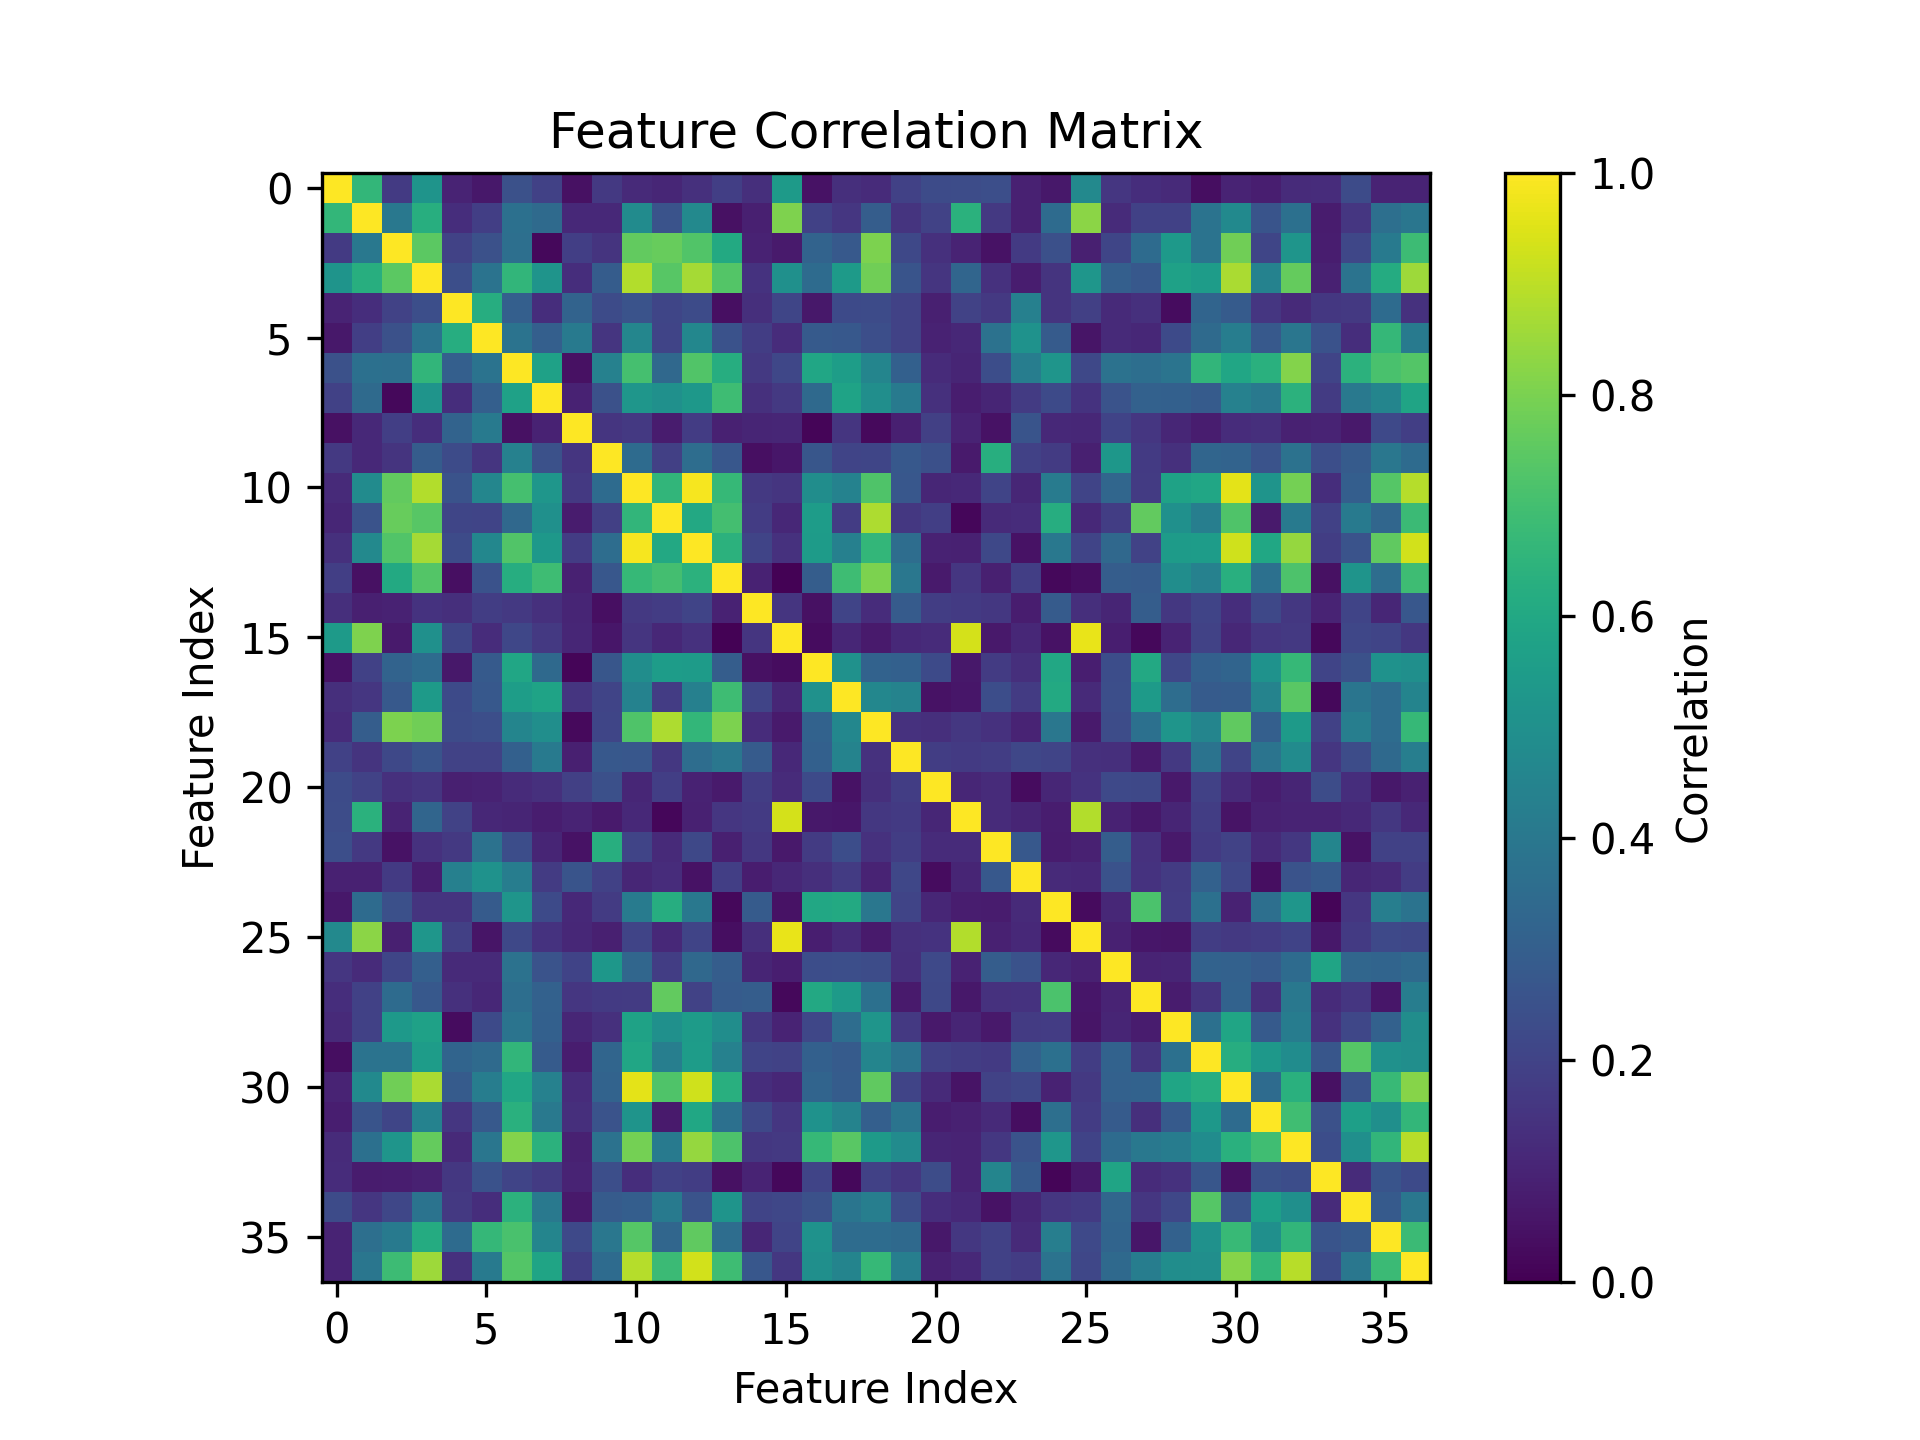
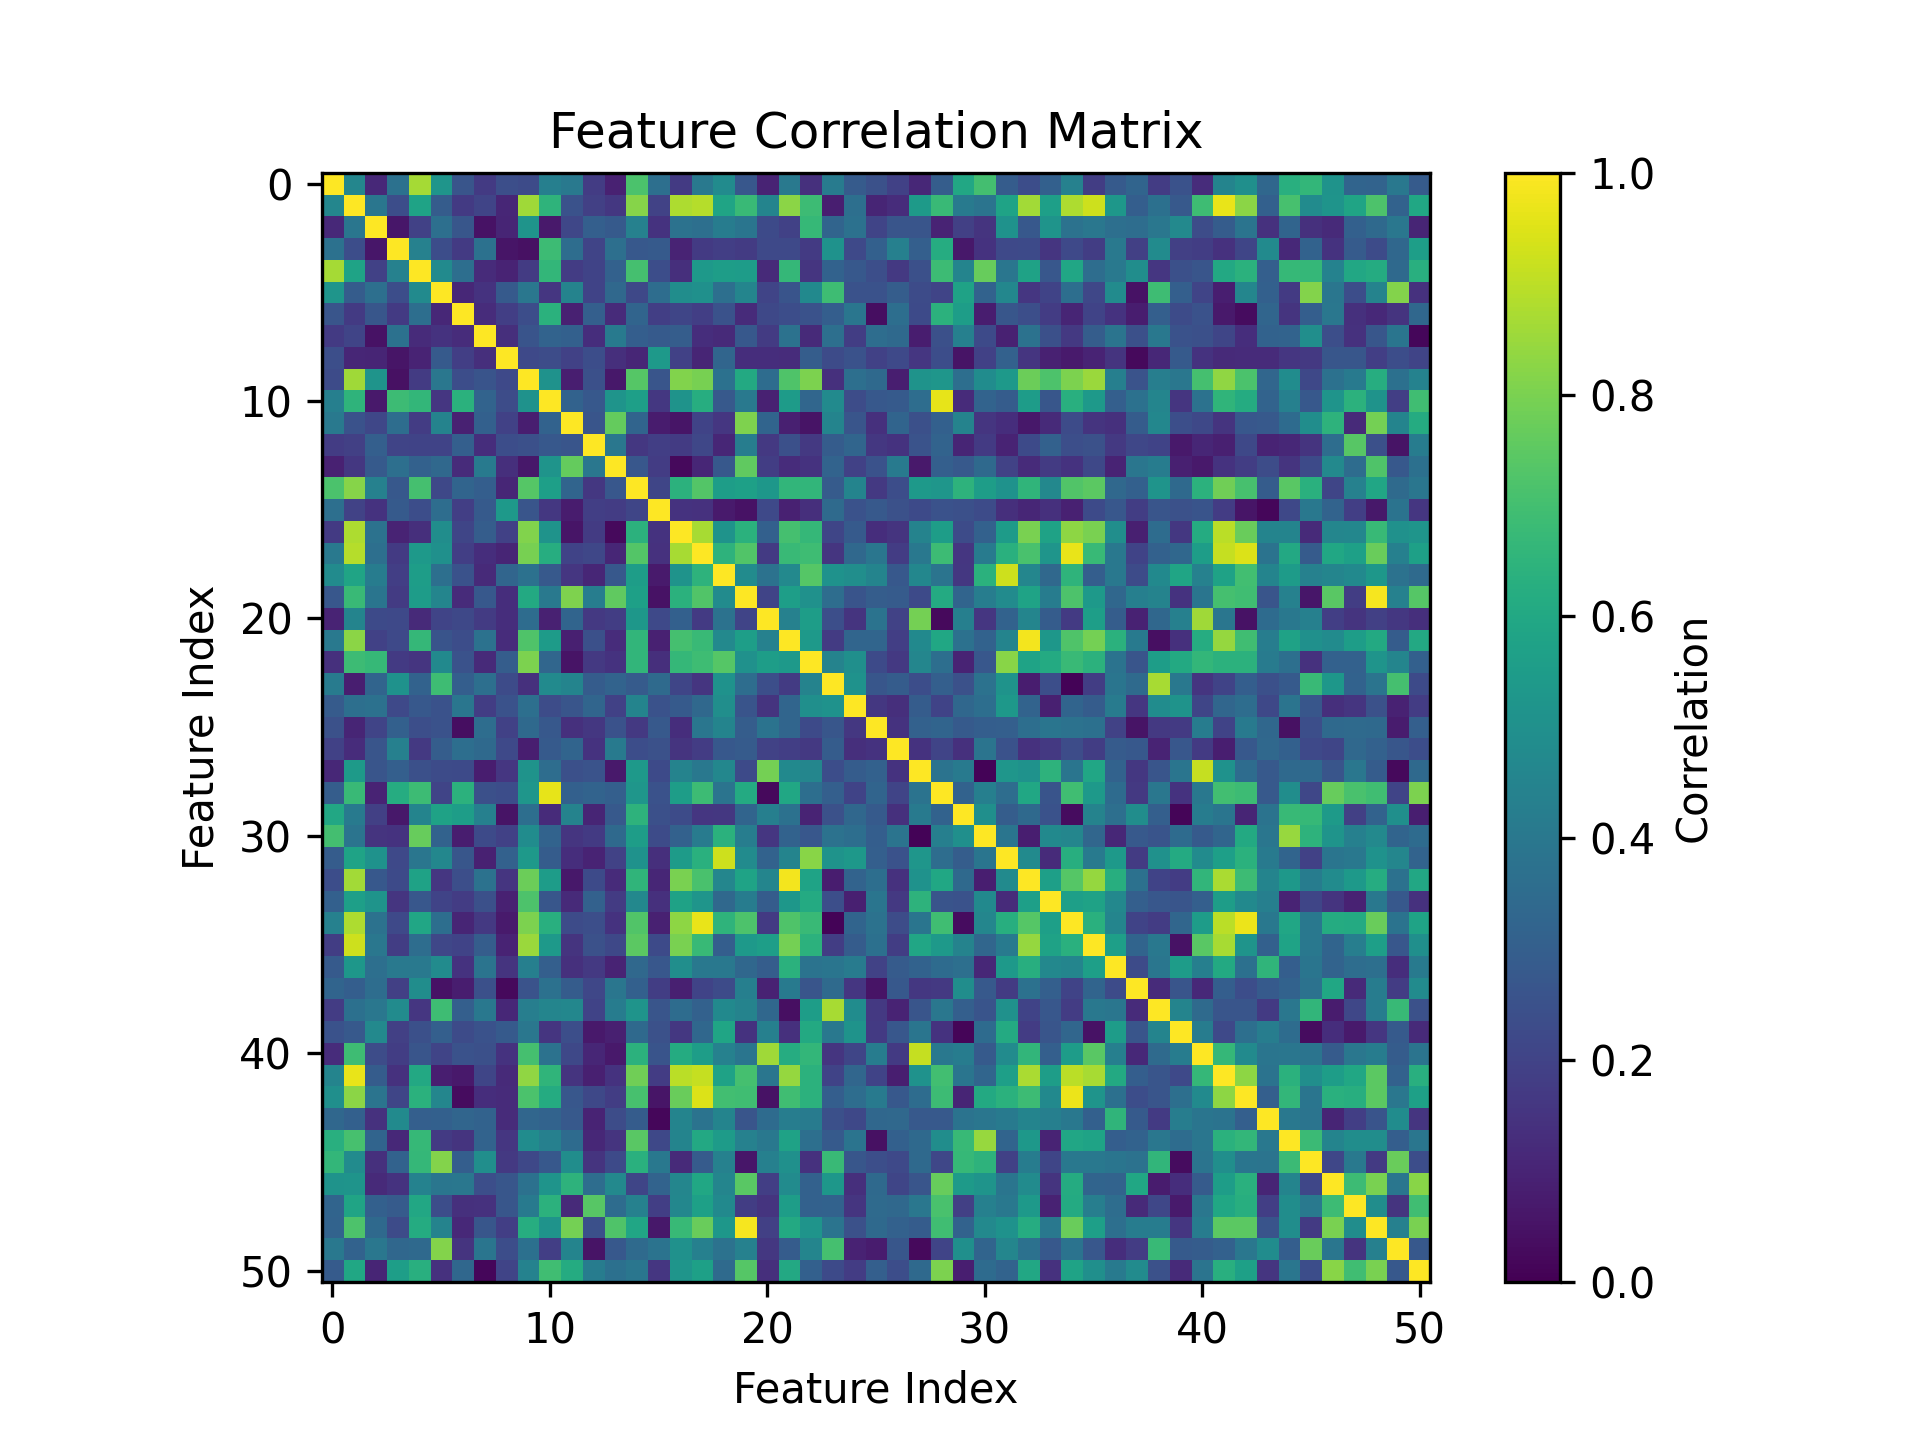
first dry tests of training

diff --git a/prior/preprocessing/preprocessing.py b/prior/preprocessing/preprocessing.py
@@ -22,7 +22,6 @@ class Preprocessor:
         remove_outliers: bool = True,
         outlier_quantile: float = 0.95,
         eps: float = 1e-8,
-        y_clip_quantile: Optional[float] = None,
         device: Optional[torch.device] = None,
         dtype: Optional[torch.dtype] = None,
     ):
@@ -41,8 +40,6 @@ class Preprocessor:
             Upper quantile (q). We winsorize using (1-q, q). Example: 0.95 → clamp to [p5, p95].
         eps : float
             Small numerical constant for divisions / logs.
-        y_clip_quantile : float (optional)
-            Optional winsorization for Y.
         device/dtype: Optional overrides for output tensors.
         """
         assert 0 < outlier_quantile <= 1.0, "outlier_quantile must be in (0, 1]."
@@ -53,7 +50,6 @@ class Preprocessor:
         self.remove_outliers = remove_outliers
         self.outlier_quantile = outlier_quantile
         self.eps = eps
-        self.y_clip_quantile = y_clip_quantile
 
         self.device = device
         self.dtype = dtype
@@ -68,17 +64,12 @@ class Preprocessor:
         
         # feature processing
         if self.remove_outliers:
-            q = float(self.outlier_quantile)
-            if not (0.5 < q <= 1.0):
+            upper_q = float(self.outlier_quantile)
+            if not (0.5 < upper_q <= 1.0):
                 raise ValueError("outlier_quantile should be in (0.5, 1.0].")
-            lower_q = 1.0 - q
-            # torch.quantile supports q as tensor
-            qs = torch.tensor([lower_q, q], device=X.device, dtype=X.dtype)
-            # Compute per (B, F)
-            # shape: [B, 2, F]
-            Q = torch.quantile(X.transpose(1, 2), qs, dim=-1, keepdim=False).transpose(0, 1)
-            self.lo_x = Q[:, 0, :].unsqueeze(1)  # [B,1,F]
-            self.hi_x = Q[:, 1, :].unsqueeze(1)  # [B,1,F]
+            lower_q = 1.0 - upper_q
+            self.lo_x = torch.quantile(X, lower_q, dim=1, keepdim=True)
+            self.hi_x = torch.quantile(X, upper_q, dim=1, keepdim=True)
             X = X.clamp(min=self.lo_x, max=self.hi_x)
         
         if self.yeo_johnson:
@@ -98,15 +89,14 @@ class Preprocessor:
             X = 2.0 * (X - self.min_x) / self.rng_x - 1.0
         
         # target processing
-        if self.y_clip_quantile is not None:
-            q = float(self.y_clip_quantile)
-            if not (0.5 < q <= 1.0):
+        if self.remove_outliers:
+            upper_q = float(self.outlier_quantile)
+            if not (0.5 < upper_q <= 1.0):
                 raise ValueError("y_clip_quantile should be in (0.5, 1.0].")
-            qs = torch.tensor([1.0 - q, q], device=Y.device, dtype=Y.dtype)
-            Q = torch.quantile(Y, qs, dim=1, keepdim=True)  # [B,2,1] effectively
-            self.lo_y = Q[:, 0:1, :]
-            self.hi_y = Q[:, 1:2, :]
-            Y = Y.clamp(min=self.lo_y.squeeze(-1), max=self.hi_y.squeeze(-1))
+            lower_q = 1.0 - upper_q
+            self.lo_y = torch.quantile(Y, lower_q, dim=1, keepdim=True)
+            self.hi_y = torch.quantile(Y, upper_q, dim=1, keepdim=True)
+            Y = Y.clamp(min=self.lo_y, max=self.hi_y)
 
         if self.negative_one_one_scaling:
             self.min_y = Y.amin(dim=1, keepdim=True)
@@ -137,8 +127,8 @@ class Preprocessor:
             X = 2.0 * (X - self.min_x) / self.rng_x - 1.0
         
         # target processing
-        if self.y_clip_quantile is not None:
-            Y = Y.clamp(min=self.lo_y.squeeze(-1), max=self.hi_y.squeeze(-1))
+        if self.remove_outliers:
+            Y = Y.clamp(min=self.lo_y, max=self.hi_y)
 
         if self.negative_one_one_scaling:
             Y = 2.0 * (Y - self.min_y) / self.rng_y - 1.0

diff --git a/graphpfn/train.py b/graphpfn/train.py
@@ -3,16 +3,15 @@ from torch import nn
 import time
 from torch.utils.data import DataLoader
 from typing import Dict, Optional
-from graphpfn.priors import PriorDataLoader
 from pfns.bar_distribution import FullSupportBarDistribution
 import schedulefree
 
+from graphpfn.model import GraphPFNModel
 from nanotabpfn.callbacks import Callback
-from nanotabpfn.model import NanoTabPFNModel
 from nanotabpfn.utils import get_default_device
 
 
-def train(model: NanoTabPFNModel, prior: PriorDataLoader, criterion: nn.CrossEntropyLoss | FullSupportBarDistribution,
+def train(model: GraphPFNModel, prior: DataLoader, criterion: nn.CrossEntropyLoss | FullSupportBarDistribution,
           epochs: int, accumulate_gradients: int = 1, lr: float = 1e-4, device: Optional[str] = None,
           callbacks: list[Callback]=[], ckpt: Optional[Dict] = None):
     """
@@ -41,7 +40,7 @@ def train(model: NanoTabPFNModel, prior: PriorDataLoader, criterion: nn.CrossEnt
         optimizer.load_state_dict(ckpt['optimizer'])
     classification_task = isinstance(criterion, nn.CrossEntropyLoss)
 
-    assert prior.num_steps % accumulate_gradients == 0, 'num_steps must be divisible by accumulate_gradients'
+    assert len(prior) % accumulate_gradients == 0, 'num_steps must be divisible by accumulate_gradients'
 
     try:
         for epoch in range(ckpt['epoch'] + 1 if ckpt else 1, epochs + 1):
@@ -55,7 +54,7 @@ def train(model: NanoTabPFNModel, prior: PriorDataLoader, criterion: nn.CrossEnt
                         full_data['y'][:, :single_eval_pos].to(device))
                 if (torch.isnan(data[0]).any() or torch.isnan(data[1]).any()):
                     continue
-                targets = full_data['target_y'].to(device)
+                targets = full_data['y'].to(device)
 
                 output = model(data, single_eval_pos=single_eval_pos)
                 targets = targets[:, single_eval_pos:]

diff --git a/tests/test_r2.py b/tests/test_r2.py
@@ -1,18 +1,18 @@
 from sklearn.metrics import r2_score
-from sklearn.tree import DecisionTreeRegressor
+from sklearn.ensemble import RandomForestRegressor
 from tabpfn import TabPFNRegressor
 
 import matplotlib.pyplot as plt
 
 from prior.dataloaders.observational_dataloader import ObservationalDataLoader
-from prior.configs.default_configs import default_graph_config, default_dataset_config, default_preprocessing_config, default_scm_config
+from prior.configs.default_configs import graph_config, scm_config, preprocessing_config, dataset_config
 
-dataloader = ObservationalDataLoader(100, 1, default_graph_config, default_scm_config, default_preprocessing_config, default_dataset_config, seed=44)
+dataloader = ObservationalDataLoader(100, 1, graph_config, scm_config, preprocessing_config, dataset_config, seed=44)
 
 from nanotabpfn import NanoTabPFNRegressor
 nano_tabpfn = NanoTabPFNRegressor()
 tabpfn = TabPFNRegressor()
-tree = DecisionTreeRegressor()
+tree = RandomForestRegressor()
 
 nano_tabpfn_scores = []
 tabpfn_scores = []
@@ -33,9 +33,9 @@ for data in dataloader:
     pred = tabpfn.predict(X_test)
     tabpfn_scores.append(r2_score(y_test, pred))
     
-    tree.fit(X_train, y_train)
+    tree.fit(X_train, y_train.ravel())
     pred = tree.predict(X_test)
-    tree_scores.append(r2_score(y_test, pred))
+    tree_scores.append(r2_score(y_test.ravel(), pred))
     
 # Plotting
 fig, axes = plt.subplots(1, 3, figsize=(12, 4), sharey=False)

diff --git a/graphpfn/utils.py b/graphpfn/utils.py
@@ -1,0 +1,35 @@
+from pfns.bar_distribution import FullSupportBarDistribution
+from pfns.bar_distribution import get_bucket_limits
+from nanotabpfn.utils import get_default_device
+
+import torch
+from torch.utils.data import DataLoader
+
+def make_bar_distribution(prior: DataLoader,
+                          n_buckets: int = 100,
+                          n_samples: int = 10000
+                          ) -> FullSupportBarDistribution:
+    """
+    Construct a full support bar/Riemann distribution.
+    Sample `n_samples` many data tables from `prior` and
+    choose `n_buckets` many buckets to each contain the same number of targets.
+    """
+    sampled_ys = []
+    n_sampled = 0
+    prior_iter = iter(prior)
+    while n_sampled < n_samples:
+        try:
+            data = next(prior_iter)
+        except StopIteration:
+            raise IndexError("Not enough data in this dataloader!")
+        y = data['y']
+        b, n, _ = y.shape
+        n_sampled += b * n
+        for col in y:
+            sampled_ys.append(col.unsqueeze(-1))
+    ys_tensor = torch.concat(sampled_ys)
+    
+    device = get_default_device()
+    buckets = get_bucket_limits(n_buckets, ys=ys_tensor).to(device)
+    print(f"Buckets of bar distribution: {buckets}")
+    return FullSupportBarDistribution(buckets)

diff --git a/prior/configs/default_configs.py b/prior/configs/default_configs.py
@@ -1,4 +1,4 @@
-default_dataset_config = {
+dataset_config = {
     # number of train samples per dataset
     # int
     "number_train_samples_per_dataset": {
@@ -19,7 +19,7 @@ default_dataset_config = {
 }
 
 
-default_graph_config = {
+graph_config = {
     # number of nodes in the causal graph
     # each node may contain several features
     # one of these will become the target, the others (if not dropped) features of the generated data
@@ -36,11 +36,11 @@ default_graph_config = {
 }
 
 
-default_preprocessing_config = {
+preprocessing_config = {
     # whether to scale features to [-1, 1] range
     # bool
     "negative_one_one_scaling": {  # whether to scale features to [-1, 1] range
-        "value": True
+        "value": False
     },
     # whether to standardize features (zero mean, unit variance)
     # bool
@@ -65,7 +65,7 @@ default_preprocessing_config = {
 }
 
 
-default_scm_config = {    
+scm_config = {    
     # probability of using XGBoost mechanism as opposed to MLP mechanism
     # float
     "xgboost_prob": {

diff --git a/graphpfn/model.py b/graphpfn/model.py
@@ -5,6 +5,7 @@ import torch.nn.functional as F
 from torch.nn import MultiheadAttention, Linear, LayerNorm
 
 from nanotabpfn.model import Decoder, FeatureEncoder, TargetEncoder
+from nanotabpfn.utils import get_default_device
 
 
 class GraphPFNModel(nn.Module):
@@ -152,9 +153,9 @@ class TransformerEncoderLayer(nn.Module):
         src = self.self_attn_between_features(src, src, src)[0]+src
         src = self.norm1(src)
         # adjacency based attention
-        mask = 1 - adjacency_matrix
-        src = self.self_attn_graph_parents(src, src, src, mask)[0]+src
-        src = self.self_attn_graph_children(src, src, src, mask.T)[0]+src
+        mask = (1 - adjacency_matrix).to(get_default_device())
+        src = self.self_attn_graph_parents(src, src, src, attn_mask=mask)[0]+src
+        src = self.self_attn_graph_children(src, src, src, attn_mask=mask.T)[0]+src
         src = src.reshape(batch_size, rows_size, col_size, embedding_size)
         src = self.norm2(src)
         # attention between datapoints

diff --git a/tests/test_seeding.py b/tests/test_seeding.py
@@ -1,9 +1,9 @@
 from prior.dataloaders.observational_dataloader import ObservationalDataLoader
-from prior.configs.default_configs import default_graph_config, default_dataset_config, default_preprocessing_config, default_scm_config
+from prior.configs.default_configs import graph_config, scm_config, preprocessing_config, dataset_config
 from probing.compare_dataloaders import compare_dataloaders
 
 
-loader_1 = ObservationalDataLoader(3, 10, default_graph_config, default_scm_config, default_preprocessing_config, default_dataset_config, seed=42)
-loader_2 = ObservationalDataLoader(3, 10, default_graph_config, default_scm_config, default_preprocessing_config, default_dataset_config, seed=42)
+loader_1 = ObservationalDataLoader(3, 10, graph_config, scm_config, preprocessing_config, dataset_config, seed=42)
+loader_2 = ObservationalDataLoader(3, 10, graph_config, scm_config, preprocessing_config, dataset_config, seed=42)
 
 compare_dataloaders(loader_1, loader_2)

diff --git a/prior/configs/debugging_configs.py b/prior/configs/debugging_configs.py
@@ -1,0 +1,29 @@
+"""
+These are like the default configs, but all relevant parameters are chosen much smaller,
+so that things like the training loop can be debugged easily even locally.
+"""
+
+import prior.configs.default_configs as defaults
+
+dataset_config = defaults.dataset_config
+dataset_config["number_train_samples_per_dataset"] = {
+        "distribution": "discrete_uniform",
+        "distribution_parameters": {"low": 10, "high": 20}
+    }
+dataset_config["number_test_samples_per_dataset"] = {"value": 3}
+
+
+graph_config = defaults.graph_config
+graph_config["num_nodes"] = { 
+        "distribution": "discrete_uniform",
+        "distribution_parameters": {"low": 5, "high": 10}
+    }
+
+
+preprocessing_config = defaults.preprocessing_config
+
+
+scm_config = defaults.scm_config
+
+
+

diff --git a/tests/test_correlation.py b/tests/test_correlation.py
@@ -1,9 +1,9 @@
 from prior.dataloaders.observational_dataloader import ObservationalDataLoader
-from prior.configs.default_configs import default_graph_config, default_dataset_config, default_preprocessing_config, default_scm_config
+from prior.configs.default_configs import graph_config, scm_config, preprocessing_config, dataset_config
 from probing.plot_correlation import plot_feature_correlation
 
 
-dataloader = ObservationalDataLoader(1, 1, default_graph_config, default_scm_config, default_preprocessing_config, default_dataset_config, seed=42)
+dataloader = ObservationalDataLoader(1, 1, graph_config, scm_config, preprocessing_config, dataset_config, seed=48)
 
 for data in dataloader:
     X = data['x'][0]

diff --git a/prior/dataloaders/observational_dataloader.py b/prior/dataloaders/observational_dataloader.py
@@ -1,6 +1,7 @@
 from typing import Any, Dict, Iterator
 import torch
 from torch.utils.data import DataLoader
+import networkx as nx
 
 from prior.causal_graph.graph_builder import GraphBuilder
 from prior.preprocessing.preprocessing import Preprocessor
@@ -102,7 +103,7 @@ class ObservationalDataLoader(DataLoader):
             full_data['x'] = X
             full_data['y'] = y.unsqueeze(-1)
             full_data['single_eval_pos'] = num_train_samples
-            full_data['target_y'] = full_data['y'][:, :num_train_samples, :]
+            full_data['adjacency_matrix'] = nx.to_numpy_array(graph)
             return full_data
             
         return iter(batch_function() for _ in range(self.num_steps))

diff --git a/tests/test_training_graph.py b/tests/test_training_graph.py
@@ -1,16 +1,17 @@
 from typing import List
+from graphpfn.model import GraphPFNModel
 from graphpfn.utils import make_bar_distribution
 
 from nanotabpfn.callbacks import Callback, ConsoleLoggerCallback
-from nanotabpfn.model import NanoTabPFNModel
-from nanotabpfn.train import train
+from graphpfn.train import train
 
 from prior.dataloaders.observational_dataloader import ObservationalDataLoader
 from prior.configs.debugging_configs import graph_config, scm_config, preprocessing_config, dataset_config
 
 num_buckets = 100
-model = NanoTabPFNModel(
+model = GraphPFNModel(
     num_attention_heads=6,
+    num_graph_attention_heads=4,
     embedding_size=192,
     mlp_hidden_size=768,
     num_layers=6,

diff --git a/nanotabpfn/train.py b/nanotabpfn/train.py
@@ -57,7 +57,7 @@ def train(model: NanoTabPFNModel, prior: DataLoader, criterion: nn.CrossEntropyL
                         full_data['y'][:, :single_eval_pos].to(device))
                 if (torch.isnan(data[0]).any() or torch.isnan(data[1]).any()):
                     continue
-                targets = full_data['target_y'].to(device)
+                targets = full_data['y'].to(device)
 
                 output = model(data, single_eval_pos=single_eval_pos)
                 targets = targets[:, single_eval_pos:]
